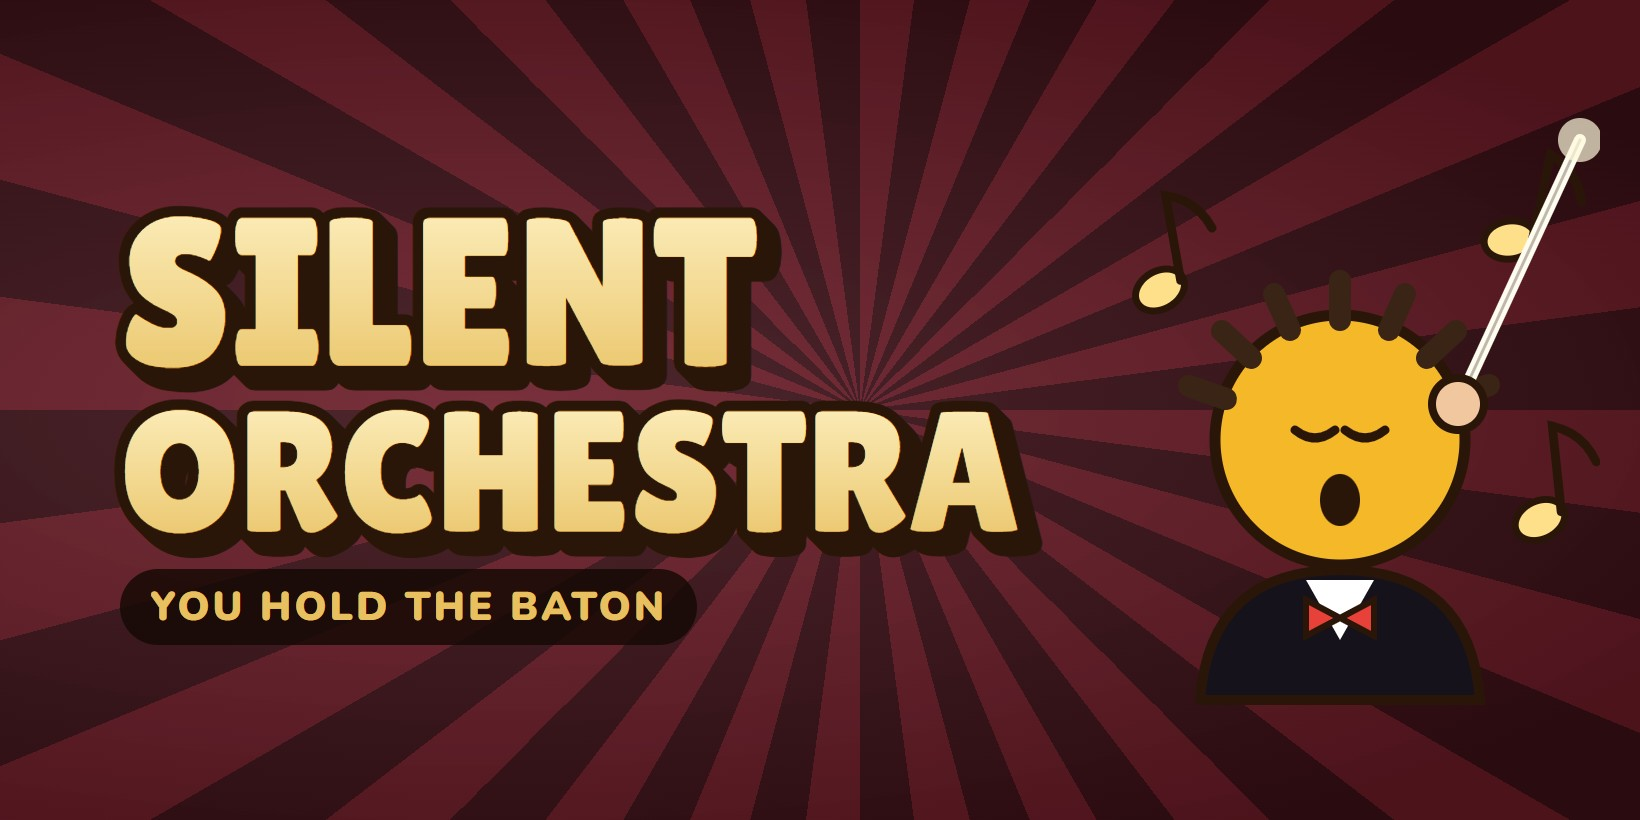
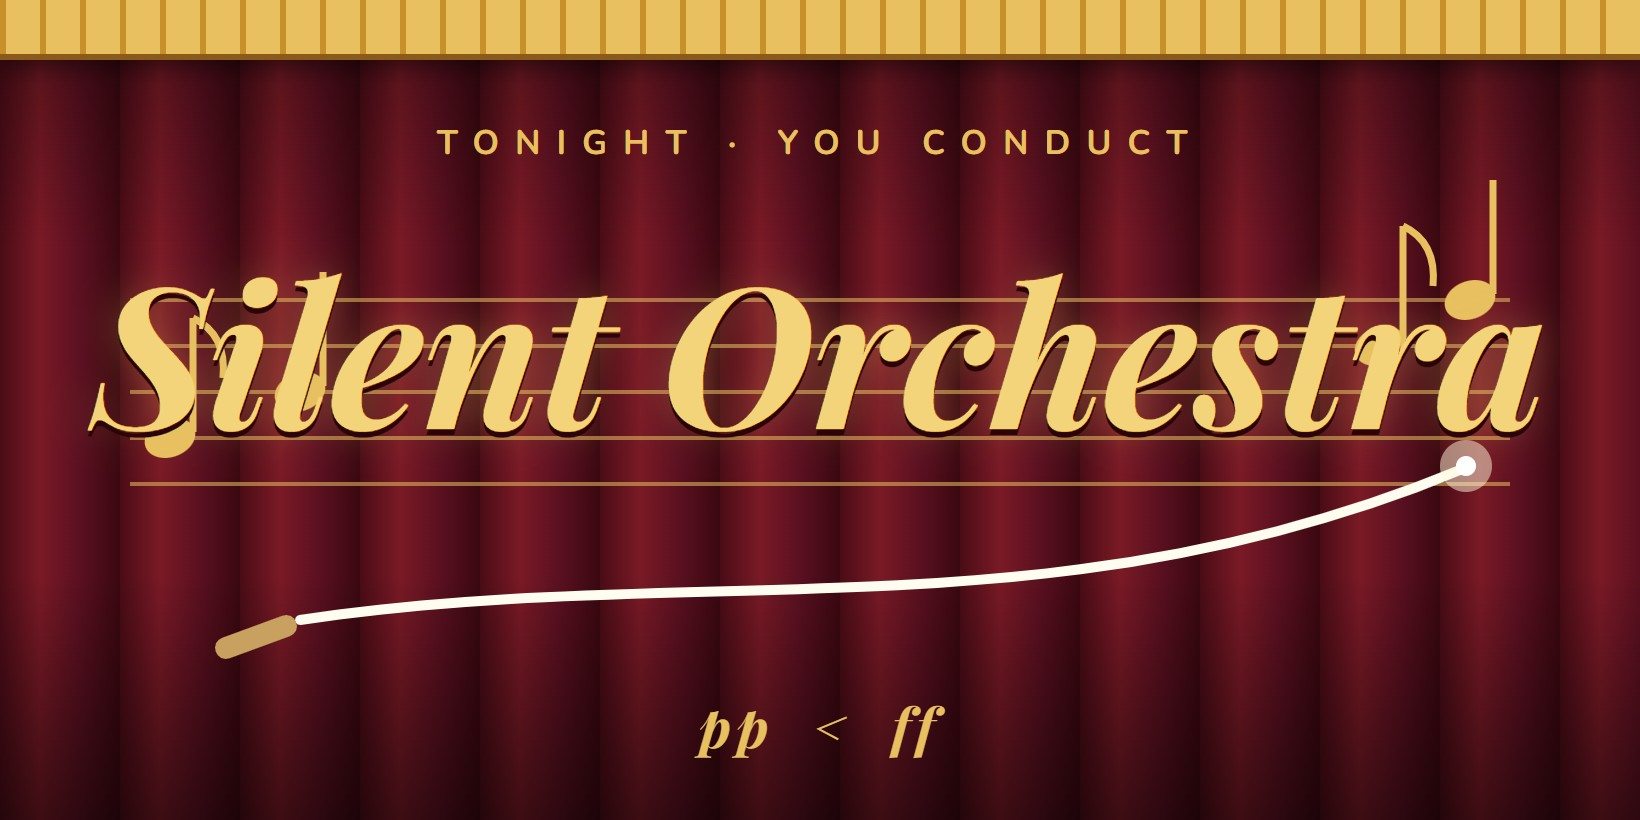
Give the 7 newest tiles each their own design instead of one template

diff --git a/index.html b/index.html
@@ -282,25 +282,25 @@ if(localStorage.getItem("kaifun_kidmode")==="1")r.classList.add("kid-mode");}cat
         <img src="hiring.png" alt="We're hiring: a paper job application">
       </a>
 <a class="game-tile tile-img" style="background:#f4ead8;border-color:#141414;box-shadow:5px 5px 0 #b3261e;" href="twosecondpainter.html" aria-label="Two-Second Painter: two seconds of ink per painting, then the Judge guesses what you drew">
-  <img src="twosecondpainter.jpg?v=2" alt="Two-Second Painter" loading="lazy">
+  <img src="twosecondpainter.jpg?v=3" alt="Two-Second Painter" loading="lazy">
 </a>
 <a class="game-tile tile-img" style="background:#3a0f16;border-color:#141414;box-shadow:5px 5px 0 #e8c060;" href="silentorchestra.html" aria-label="Silent Orchestra: pick up the baton and conduct a full orchestra. Your beat sets the tempo and your gestures set the volume">
-  <img src="silentorchestra.jpg?v=2" alt="Silent Orchestra" loading="lazy">
+  <img src="silentorchestra.jpg?v=3" alt="Silent Orchestra" loading="lazy">
 </a>
 <a class="game-tile tile-img" style="background:#9fdcff;border-color:#141414;box-shadow:5px 5px 0 #b3261e;" href="fortunecookie.html" aria-label="Fortune Cookie Factory: crack fortune cookies to save a tiny town from fortunes that come true, with over 1,000 fortunes to collect">
-  <img src="fortunecookie.jpg?v=2" alt="Fortune Cookie Factory" loading="lazy">
+  <img src="fortunecookie.jpg?v=3" alt="Fortune Cookie Factory" loading="lazy">
 </a>
 <a class="game-tile tile-img" style="background:#b97a45;border-color:#141414;box-shadow:5px 5px 0 #ffb84d;" href="catkeyboard.html" aria-label="Cat on a Keyboard: walk across the keys to secretly type I QUIT and send it to the boss without your human noticing">
-  <img src="catkeyboard.jpg?v=2" alt="Cat on a Keyboard" loading="lazy">
+  <img src="catkeyboard.jpg?v=3" alt="Cat on a Keyboard" loading="lazy">
 </a>
 <a class="game-tile tile-img" style="background:#000;border-color:#141414;box-shadow:5px 5px 0 #7fe7ff;" href="echo.html" aria-label="Echo: a pitch-black 3D cave. Your sound scanner paints the walls in dots, but every sound wakes whatever lives down there">
-  <img src="echo.jpg?v=2" alt="Echo" loading="lazy">
+  <img src="echo.jpg?v=3" alt="Echo" loading="lazy">
 </a>
 <a class="game-tile tile-img" style="background:#efe7da;border-color:#141414;box-shadow:5px 5px 0 #e4572e;" href="gravitypainter.html" aria-label="Gravity Painter: no brushes, just pour the paint and tilt the canvas to copy the picture">
-  <img src="gravitypainter.jpg?v=2" alt="Gravity Painter" loading="lazy">
+  <img src="gravitypainter.jpg?v=3" alt="Gravity Painter" loading="lazy">
 </a>
 <a class="game-tile tile-img" style="background:#5a6068;border-color:#141414;box-shadow:5px 5px 0 #ff7a1a;" href="trafficcone.html" aria-label="Traffic Cone: you are a traffic cone, and you can only move when nobody is looking. Scoot across the city without getting caught">
-  <img src="trafficcone.jpg?v=2" alt="Traffic Cone" loading="lazy">
+  <img src="trafficcone.jpg?v=3" alt="Traffic Cone" loading="lazy">
 </a>
 <a class="game-tile tile-img" style="background:#16161d;border-color:#141414;box-shadow:5px 5px 0 #ff4d4d;" href="snitch.html" aria-label="Your Computer Is a Snitch: guess what your browser tells every website about you, then see your full dossier and how to hide">
   <img src="snitch.jpg" alt="Your Computer Is a Snitch" loading="lazy">
